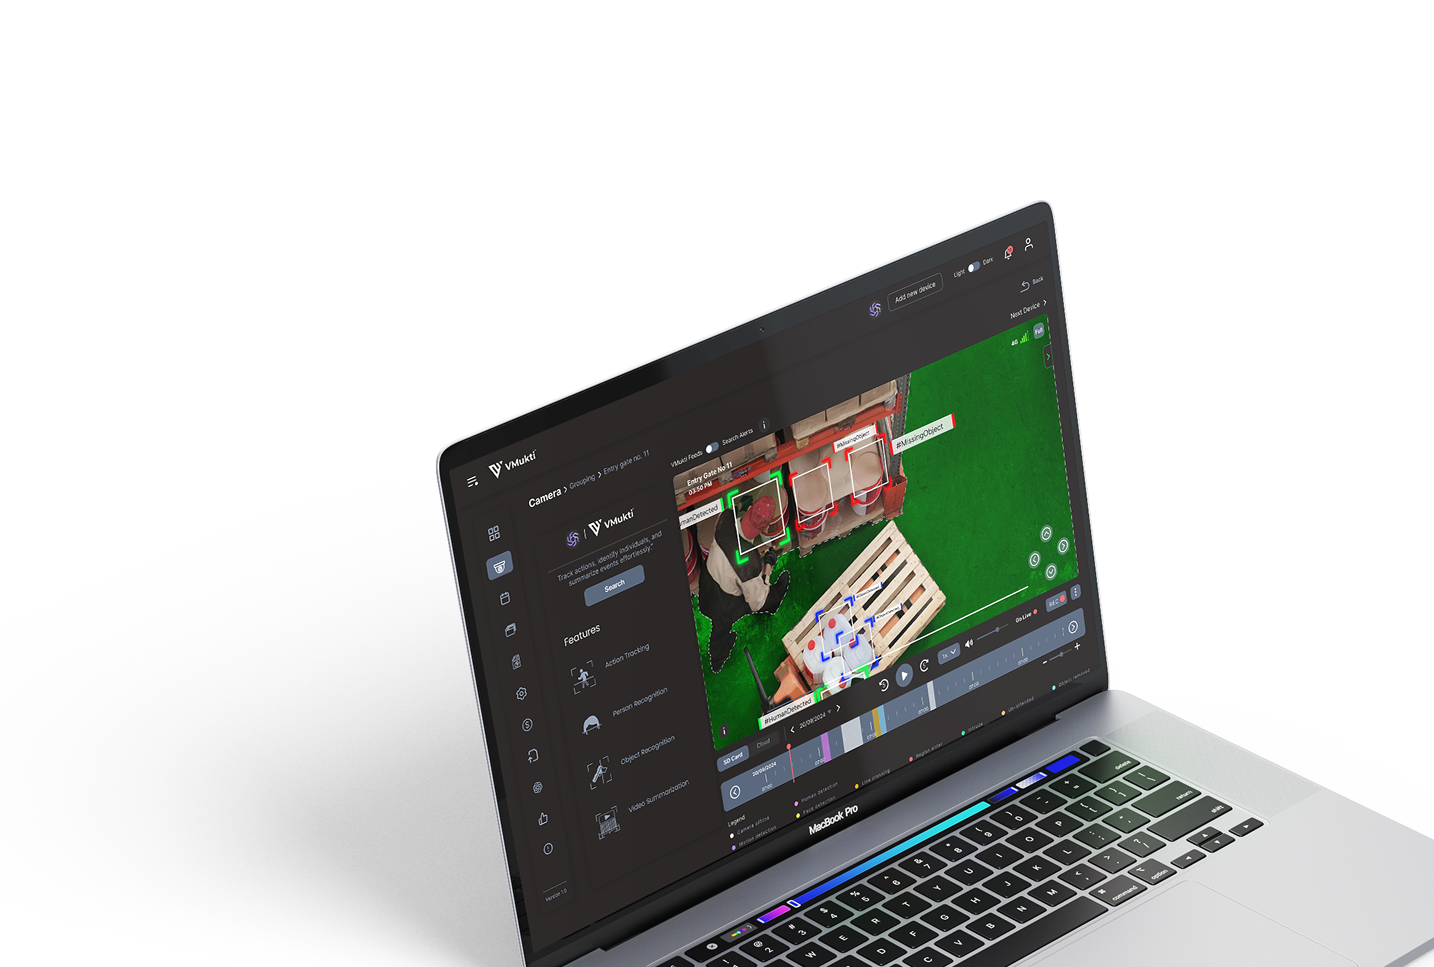
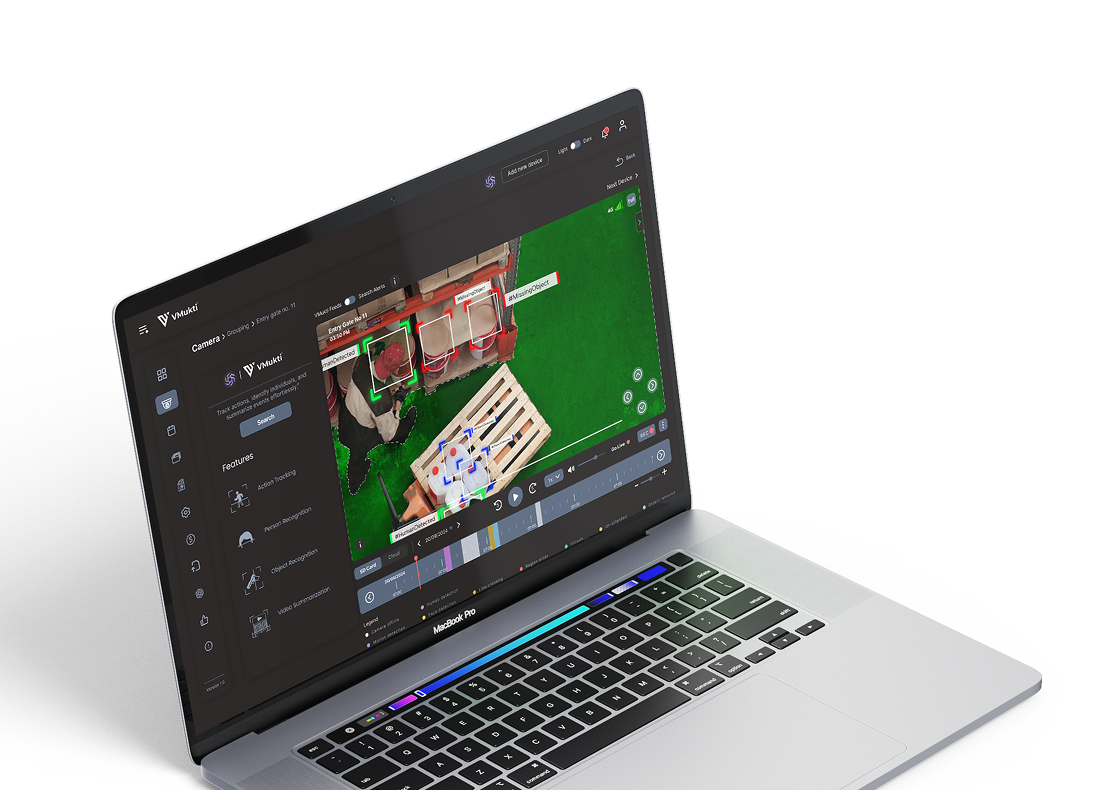
fix: update mockup images and improve navbar responsiveness for better user experience

diff --git a/src/components/IndustryContent.js b/src/components/IndustryContent.js
@@ -83,7 +83,7 @@ const IndustryContent = ({ props, content }) => {
           position="relative"
         >
           {/* Title Container with relative positioning */}
-          <Flex direction="column">
+          <Flex direction="column" width="100%">
             <Box position="relative" mb="20px">
               {/* Title Text (above the white rectangle) */}
               <MotionText
@@ -148,6 +148,7 @@ const IndustryContent = ({ props, content }) => {
                 maxWidth={{ base: "100%", md: "30%" }}
                 textAlign={{ base: "center", md: "left" }}
                 position="relative"
+              // bg="red"
               >
                 {/* Arrow Animation */}
                 {/* Desktop View */}
@@ -206,7 +207,7 @@ const IndustryContent = ({ props, content }) => {
                   // textAlign={{ base: "center", md: "left" }}
                   textAlign={{ base: "left", md: "left" }}
                   fontSize={{ base: "14px", md: "16px" }}
-                  maxW="100%"
+                  maxW="80%"
                   initial={{ opacity: 0, x: -50 }}
                   animate={{ opacity: 1, x: 0 }} // Changed from whileInView to animate
                   transition={{ duration: 0.8, ease: "easeOut", delay: 0.1 }}
@@ -228,6 +229,10 @@ const IndustryContent = ({ props, content }) => {
                   _hover={{ bg: "#2c5a7a", color: "white" }}
                   px={{ base: "12px", md: "15px", lg: "20px" }}
                   display="flex"
+                // initial={{ opacity: 0, x: -40 }}
+                // animate={{ opacity: 1, x: 0 }} // Changed from whileInView to animate
+                // transition={{ duration: 0.7, ease: "easeOut" }}
+                // viewport={{ once: false, amount: 0.1 }}
                 >
                   Book Demo
                   <Box
@@ -266,30 +271,34 @@ const IndustryContent = ({ props, content }) => {
           >
             {/* Small image (35% width) - Fixed height */}
             <Box
-              flex="0 0 30%"
-              display={{ base: "none", md: "flex" }}
-              backgroundColor="white"
+              // flex="0 0 30%"
+              display={{ base: "none", md: "block" }}
+              bg="white"
               height={{ base: "200px", md: "250px", lg: "336px" }}
               width={{ base: "200px", md: "250px", lg: "336px" }}
-              aspectRatio={1}
+              // height="auto"
+              aspectRatio={1 / 1}
               borderRadius="24px"
               flexShrink="0"
             />
-            <Box width="100%" height="65%" borderRadius="20px">
+            <Box position="relative" width="100%" height={{xl: "630px" }} bg="white" overflow="visible" borderRadius="20px">
               {/* Large image (60% width) - Will extend upward */}
               <MotionImage
                 src={`${process.env.PUBLIC_URL}/assets/${content.large_image}`}
                 alt={content.large_image_alt}
-                width="100%"
-                height="65%"
-                backgroundColor="white"
-                borderRadius="24px"
+                position={{ xl: "absolute" }}
+                // top="-18%"
+                bottom="-6%"
+                // right="0"
+                left="-5%"
                 flexShrink="1"
                 initial="hidden"
-                animate="visible" // Changed from whileInView to animate
-                variants={popAnimation}
-                viewport={{ once: false }} // Ensures animation runs every time the image enters the viewport
+                animate="visible"
+                variants={{ hidden: { scale: 0.8 }, visible: { scale: 0.9, transition: { duration: 0.5 } } }}
+                // style={{ transform: "scale(1.1)" }}
+                viewport={{ once: false }}
               />
+
             </Box>
           </Flex>
 
@@ -303,9 +312,10 @@ const IndustryContent = ({ props, content }) => {
             pb="4%"
             display="flex"
             flexWrap="wrap"
+            zIndex="2"
             justifyContent="center"
             gap="5"
-            marginTop="5%"
+            marginTop="3%"
             position="relative" // Needed for absolute positioning inside
             overflow="hidden"
           >
@@ -316,12 +326,15 @@ const IndustryContent = ({ props, content }) => {
               right="-20%"
               width="70%" // SVG covers 70% of the background width
               zIndex="0"
+            // overflow="hidden"
+            // bg="red"
             >
               <Image
                 src={`${process.env.PUBLIC_URL}/assets/VMukti Brochure O2 1.png`}
                 alt=""
                 width="100%"
                 opacity="0.8"
+              // overflow="hidden"
               />
             </Box>
             <Box
@@ -330,12 +343,15 @@ const IndustryContent = ({ props, content }) => {
               left="-10%"
               width="70%" // SVG covers 70% of the background width
               zIndex="0"
+            // overflow="hidden"
             >
               <Image
                 src={`${process.env.PUBLIC_URL}/assets/VMukti Brochure O2 2.png`}
                 alt=""
                 width="100%"
                 opacity="0.8"
+              // overflow="hidden"
+              // bg="red"
               />
             </Box>
 
@@ -366,6 +382,8 @@ const IndustryContent = ({ props, content }) => {
                 variants={popAnimation1}
                 custom={index}
                 viewport={{ once: false }} // Repeats animation on scroll
+              // bg="red"
+              // pb="4%"
               >
                 {/* Grey Placeholder */}
                 <Image
@@ -398,6 +416,7 @@ const IndustryContent = ({ props, content }) => {
                   borderRadius="2px"
                   backgroundColor="#3F77A5"
                   alignSelf="flex-start"
+                // bg="red"
                 />
 
                 {/* Description */}
@@ -428,6 +447,7 @@ const IndustryContent = ({ props, content }) => {
             flexDirection={{ base: "column", md: "row" }}
             alignItems="center"
             justifyContent="space-between"
+          // bg="red"
           >
             {/* Key Benefits Title */}
             <Text
@@ -443,11 +463,12 @@ const IndustryContent = ({ props, content }) => {
             {/* Benefits Grid */}
             <Flex
               flex="1"
-              justifyContent={{md:"space-evenly"}}
-              alignItems={{base:"left",md:"center"}}
+              justifyContent={{ md: "space-evenly" }}
+              alignItems={{ base: "left", md: "center" }}
               flexWrap="wrap"
               gap="30px"
-              ml={{base:"-10%",md:"5%"}}
+              ml={{ base: "0%", md: "5%" }}
+            // bg="red"
             >
               {content.keyBenefits.map((benefit, index) => (
                 <Box
@@ -455,12 +476,14 @@ const IndustryContent = ({ props, content }) => {
                   textAlign="center"
                   width={{ base: "60%", md: "250px" }}
                   flexShrink="0"
+                // maxWidth="160px" // Controls text wrapping for two lines
                 >
                   {/* SVG Icon */}
                   <Box
                     display="flex"
                     alignItems="center"
                     justifyContent="flex-start" // Aligns icon to the left
+                  // paddingLeft="8px" // Adds slight spacing from the edge
                   >
                     <Image src={benefit.svg} alt={benefit.title} />
                   </Box>

diff --git a/src/components/Navbar.js b/src/components/Navbar.js
@@ -353,8 +353,8 @@ const Navbar = () => {
                                 ))}
                             </HStack>
                         </Show>
-
-                        <Hide above="lg">
+                        {/* inside hamburger */}
+                        <Hide above="lg"><Hide below="md" >
                             <IconButton
                                 onClick={onOpen}
                                 icon={<svg
@@ -371,9 +371,27 @@ const Navbar = () => {
                                 variant="ghost"
                                 aria-label="Open menu"
                             />
-                        </Hide>
+                        </Hide></Hide>
                     </Flex>
-
+                    {/* outside hamburger */}
+                    <Show below="md">
+                        <IconButton
+                            onClick={onOpen}
+                            icon={<svg
+                                width="22"
+                                height="18"
+                                viewBox="0 0 22 18"
+                                fill="none"
+                                xmlns="http://www.w3.org/2000/svg"
+                            >
+                                <path d="M15.9248 6.63574H0.776812C0.347614 6.63574 0 6.98336 0 7.41255V10.5198C0 10.949 0.347614 11.2966 0.776812 11.2966H15.9248C16.354 11.2966 16.7016 10.949 16.7016 10.5198V7.41255C16.7016 6.98336 16.354 6.63574 15.9248 6.63574Z" fill="#3F77A5" />
+                                <path d="M20.9742 0H0.777056C0.347858 0 0.000244141 0.347614 0.000244141 0.776812V3.88406C0.000244141 4.31326 0.347858 4.66087 0.777056 4.66087H20.9742C21.4034 4.66087 21.751 4.31326 21.751 3.88406V0.776812C21.751 0.347614 21.4034 0 20.9742 0Z" fill="#3F77A5" />
+                                <path d="M10.8756 13.2717H0.777056C0.347858 13.2717 0.000244141 13.6193 0.000244141 14.0485V17.1558C0.000244141 17.585 0.347858 17.9326 0.777056 17.9326H10.8756C11.3048 17.9326 11.6524 17.585 11.6524 17.1558V14.0485C11.6524 13.6203 11.3048 13.2717 10.8756 13.2717Z" fill="#3F77A5" />
+                            </svg>}
+                            variant="ghost"
+                            aria-label="Open menu"
+                        />
+                    </Show>
                     <Show above="md">
                         <Button
                             width={contactBtnSize}

diff --git a/src/pages/Home/Components/HeroSection.js b/src/pages/Home/Components/HeroSection.js
@@ -162,7 +162,7 @@ const HeroSection = () => {
                 {/* Desktop View */}
                 {!useBreakpointValue({ base: true, md: false }) && (
                     <MotionImage
-                        src="/assets/tablet1.png"
+                        src="/assets/tablet1.webp"
                         position="absolute"
                         right="-30px"
                         width={"1050.778px"}
